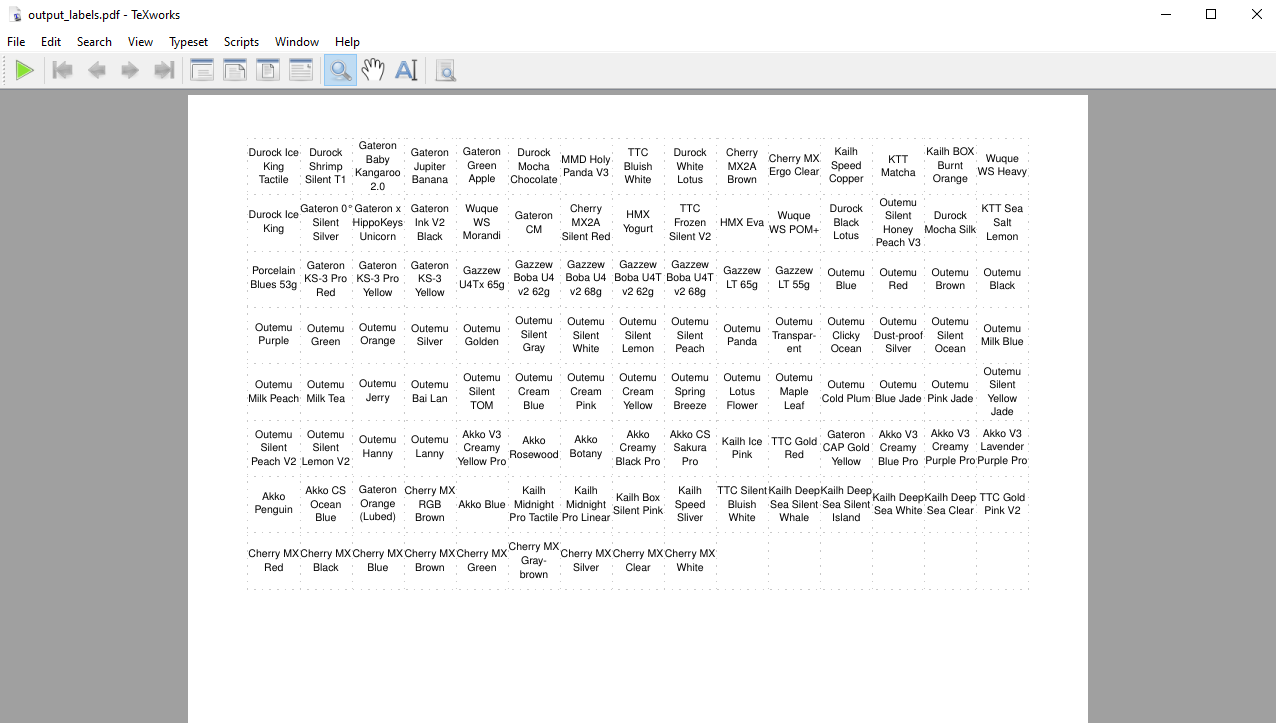
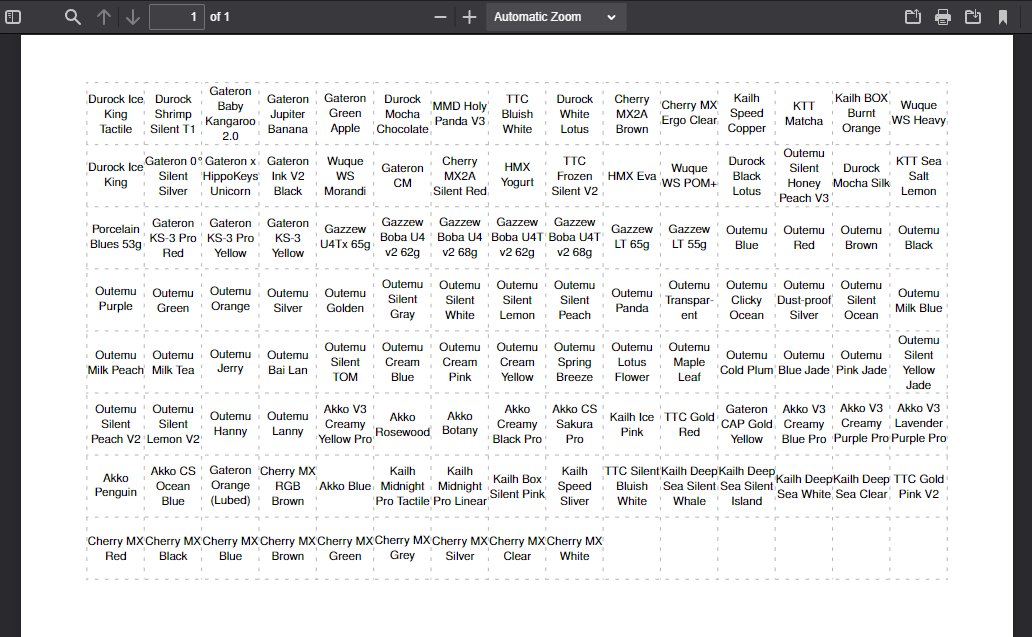
darken dashed cut line

diff --git a/generateLatex.py b/generateLatex.py
@@ -47,10 +47,10 @@ def generate_latex(names):
 \usepackage[table]{xcolor}
 \usepackage{arydshln}
 
-\definecolor{lightgray}{RGB}{200,200,200} % Light gray color
+\definecolor{lightgray}{RGB}{180,180,180} % Light gray color
 \arrayrulecolor{lightgray}
 
-\setlength{\dashlinedash}{1pt}
+\setlength{\dashlinedash}{2pt}
 \setlength{\dashlinegap}{4pt}
 
 \newcolumntype{C}[1]{%

diff --git a/output_labels.tex b/output_labels.tex
@@ -7,10 +7,10 @@
 \usepackage[table]{xcolor}
 \usepackage{arydshln}
 
-\definecolor{lightgray}{RGB}{200,200,200} % Light gray color
+\definecolor{lightgray}{RGB}{180,180,180} % Light gray color
 \arrayrulecolor{lightgray}
 
-\setlength{\dashlinedash}{1pt}
+\setlength{\dashlinedash}{2pt}
 \setlength{\dashlinegap}{4pt}
 
 \newcolumntype{C}[1]{%
